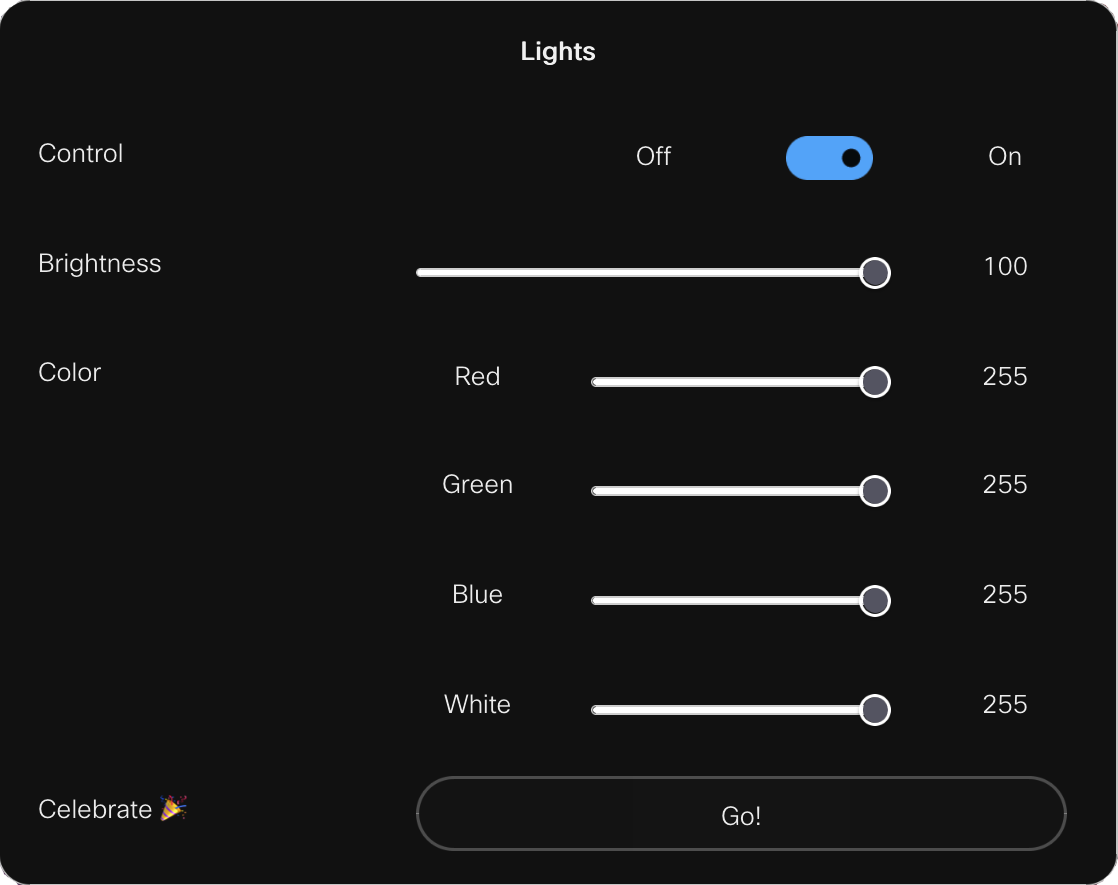
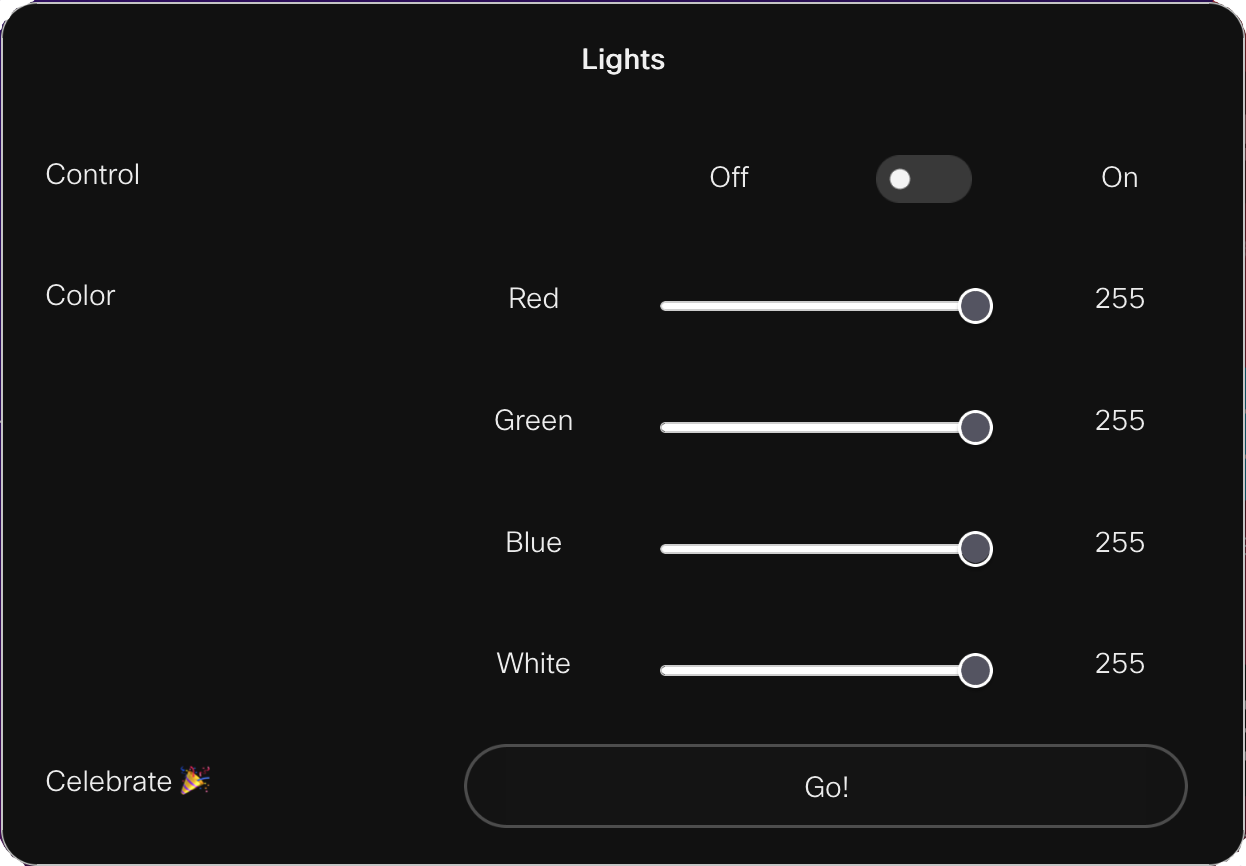
added more options to lights demo and fixed screenshot

diff --git a/light_control.js b/light_control.js
@@ -24,9 +24,9 @@ or implied.
  * 
  * 
  * Released: July 17, 2024
- * Updated: June 17, 2024
+ * Updated: September 5, 2024
  *
- * Version: 1.0.1
+ * Version: 1.0.2
 */
 
 import xapi from 'xapi';
@@ -34,7 +34,10 @@ import xapi from 'xapi';
 const ligthIPs = ['10.0.1.111', '10.0.1.112', '10.0.1.113', '10.0.1.114']; // Set the IP address of the lights
 const LIGHT_USERNAME = 'admin'; // Set the username for the smart switch, leave blank if not needed
 const LIGHT_PASSWORD = 'password'; // Set the password for the smart switch
-const CELEBRATING_URL = 'https://youtu.be/3GwjfUFyY6M?si=Kk5dSEaH4m7iLuNv'
+// Leave CELEBRATING_URL blank if no video needs to be shown on the main screen during the celebration.
+// Otherwise, put the URL of a video such as 'https://youtu.be/3GwjfUFyY6M?si=Kk5dSEaH4m7iLuNv' but insure it plays automatically.
+const CELEBRATING_URL = '';
+const CELEBRATING_DURATION = 16000; // Set the time in milliseconds for the celebration to last
 
 
 let nIntervId;
@@ -242,7 +245,7 @@ async function handleWidgetActions(event) {
           if (CELEBRATING_URL != "") xapi.Command.UserInterface.WebView.Clear();
           isCelebrating = false;
         },
-          16000);
+          CELEBRATING_DURATION);
 
       }
       break;

diff --git a/README.md b/README.md
@@ -9,7 +9,7 @@ This macro turns on a fan once a threshold temperature is hit and turns it off o
 
 ### Light control (light-control.js)
 
-Provides a UI top level buttons to turn lights on/off or dim them at a specific setting. Also provide a top level button called "Celebrate" that does some multi-bulb light flashing patter for 15 seconds and goes back to the normal setting. There is also a "color chooser" button that brings up another panel with a individual color sliders for all 4 bulbs so you can set their color or just set to white.
+Provides a UI top level buttons to turn lights on/off and change their color or white intensity. Also provides a top level button called "Celebrate" that does some multi-bulb light flashing pattern for a configurable number of seconds with an option to play a video on the main screen during that time.  
 Lights are controlled via HTTP commands on the local network using the same protocol as for the smart swich since we are using devices from the same brand and family of home automation products these first two.
 
 ### HDMI Matrix switcher controller (matrix_switch_serial.js)
